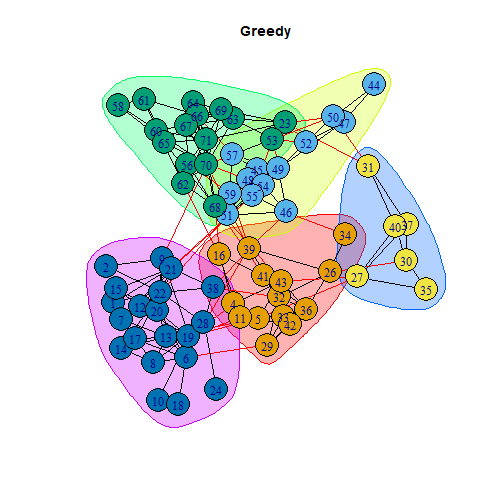
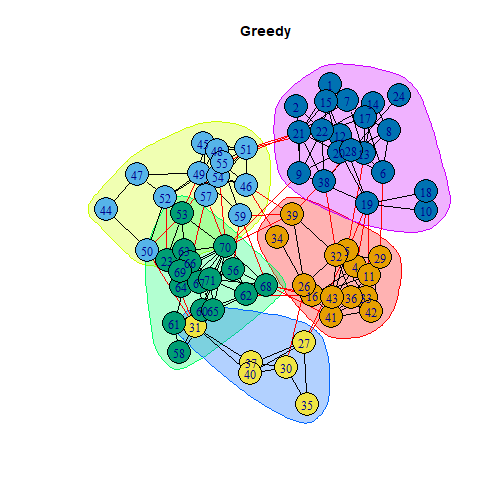
sched

diff --git a/public/materials/Slides/04_communities.html b/public/materials/Slides/04_communities.html
@@ -169,7 +169,7 @@ mf$partition1
 ```
 
 ```
-## + 17/34 vertices, from d04b851:
+## + 17/34 vertices, from e7e173c:
 ##  [1]  1  2  3  4  5  6  7  8 10 11 12 13 14 17 18 20 22
 ```
 
@@ -178,7 +178,7 @@ mf$partition2
 ```
 
 ```
-## + 17/34 vertices, from d04b851:
+## + 17/34 vertices, from e7e173c:
 ##  [1]  9 15 16 19 21 23 24 25 26 27 28 29 30 31 32 33 34
 ```
 ---
@@ -356,6 +356,26 @@ plot(ceb, friends, layout=LO, main="Betweenness")
 
 - Apply these algorithms to find communities in the email data 
 (Assignment 1)
+
+- To get started:
+
+
+``` r
+library(tidyverse)
+email&lt;-read.csv("emailnet.csv")
+email_Jan6&lt;- email |&gt; dplyr::filter(day==6 &amp; to!=From) 
+
+#This is a directed network, but make undirected to detect communities:
+g = igraph::graph_from_data_frame(email_Jan6, directed=FALSE)
+
+#Make edges unweighted
+g_simple &lt;- igraph::simplify(g, remove.multiple = TRUE, remove.loops = TRUE)
+plot(g_simple, vertex.label=NA, vertex.size=5,edge.arrow.size=.3)
+
+cfg&lt;-cluster_fast_greedy(g_simple)
+plot(cfg, g_simple, main="Greedy", vertex.label=NA)
+```
+
 
 
 
